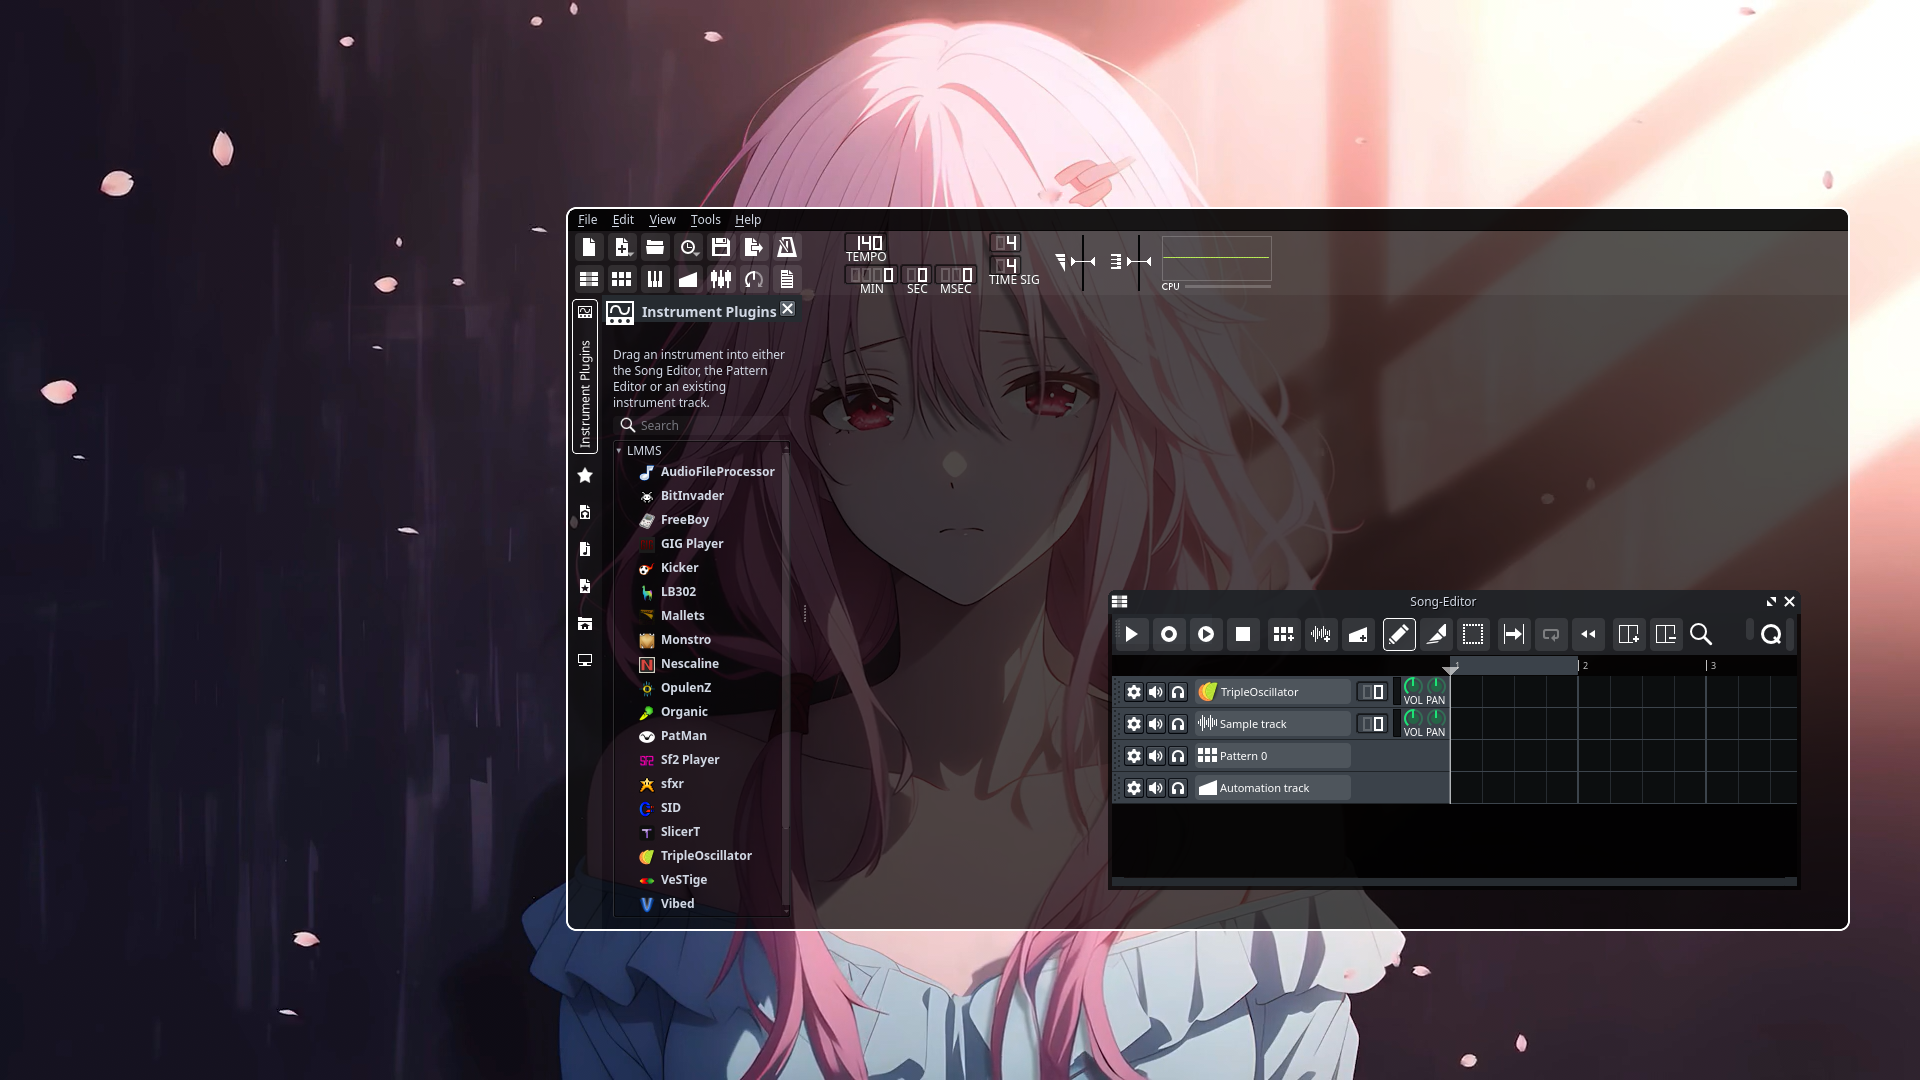
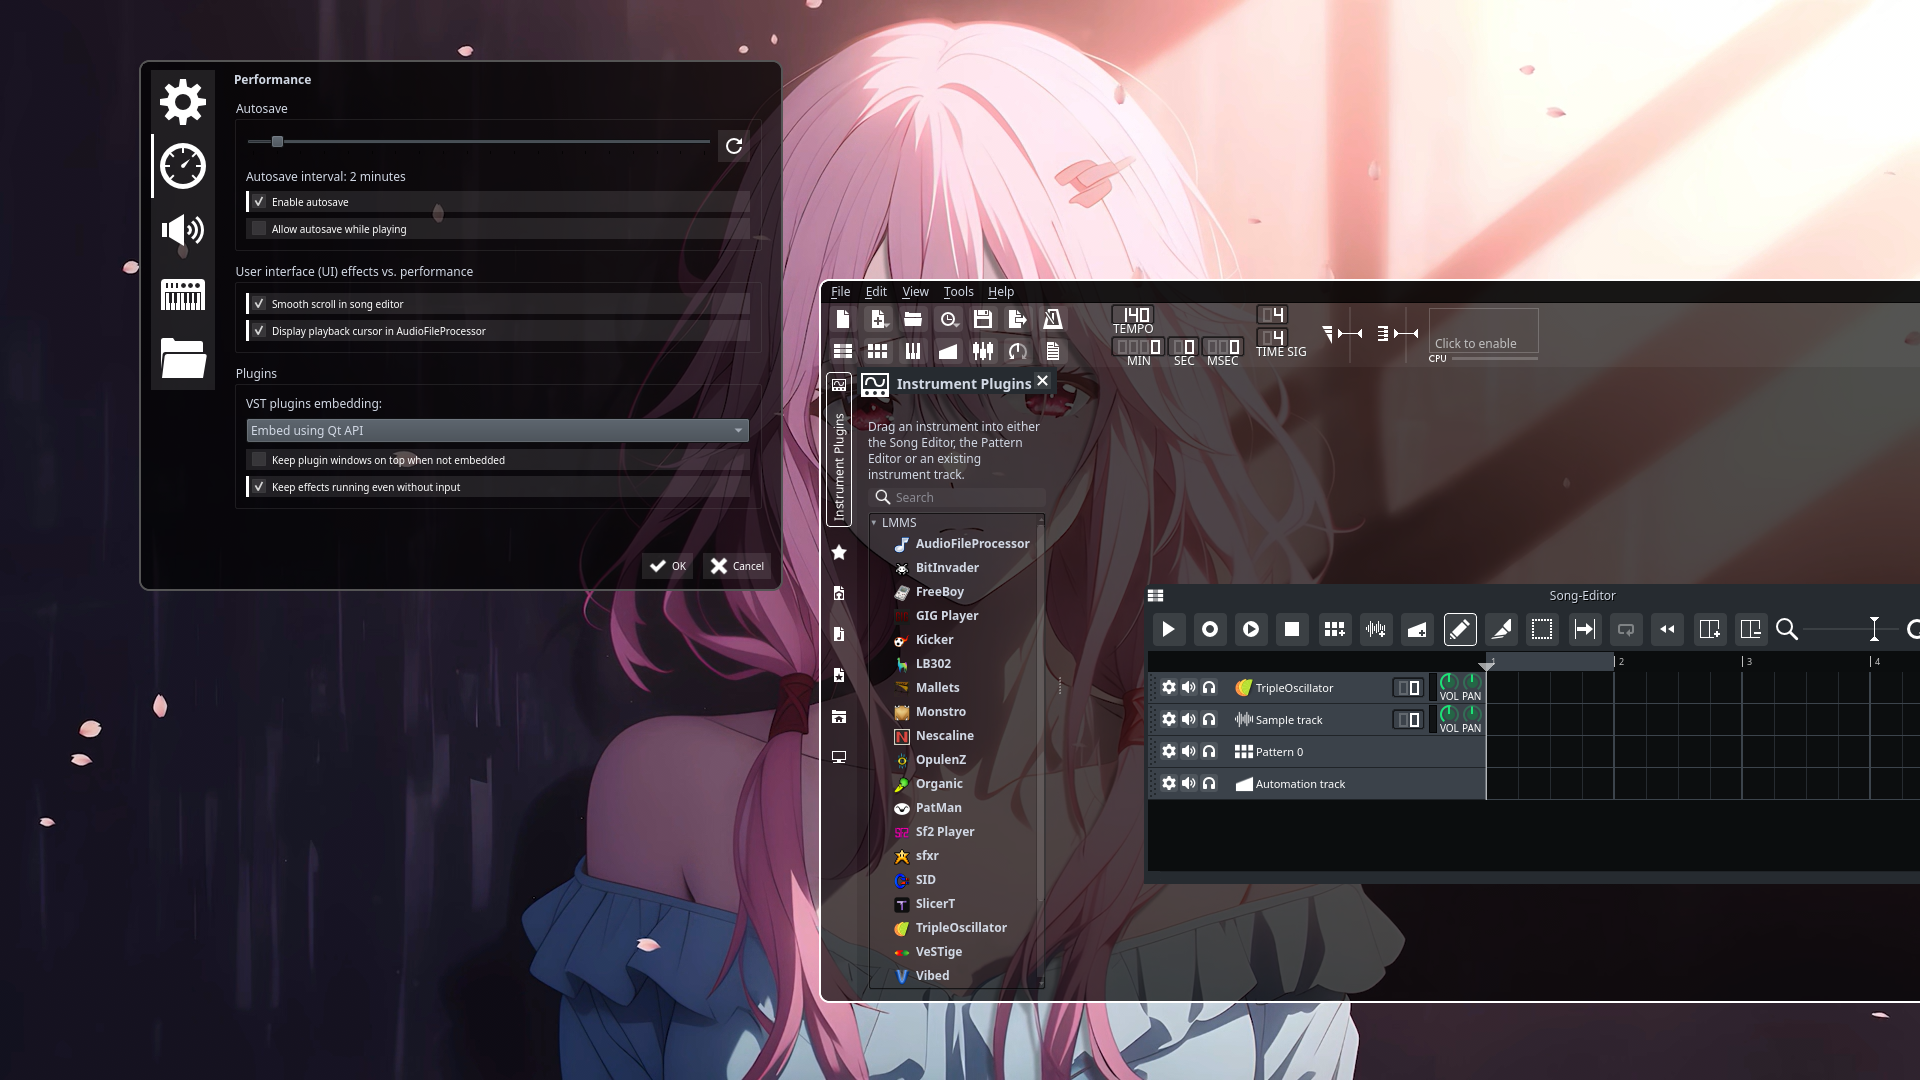
update QToolTip and screenshots

diff --git a/LMMX3/style.css b/LMMX3/style.css
@@ -104,8 +104,11 @@ QTextEdit, QLineEdit:focus, QComboBox:focus, QSpinBox:focus, QDoubleSpinBox:focu
 }
 
 QToolTip {
-	border-radius: 999px;
-	background: rgba(0, 0, 0, 0.7);
+/*	border-radius: 16px; */
+	border-color: #fff;
+	border-width: 1px;
+	border-style: solid;
+	background: rgb(0, 0, 0);
 	color: #fff;
 	padding: 3px;
 }
@@ -797,25 +800,27 @@ lmms--gui--SideBar {
 	background-color: rgba(255, 255, 255, 0.04);
 }
 
-lmms--gui--SideBar QToolButton {
+lmms--gui--SideBar > QToolButton {
 	background-color: rgba(255, 255, 255, 0);
-	border: none;
+	border-width: 1px;
+	border-style: none;
 	font-size: 12px;
+	padding: 3px;
 }
 
-lmms--gui--SideBar QToolButton:hover {
+lmms--gui--SideBar > QToolButton:hover {
 	background: rgba(255, 255, 255, 0.15);
 	border: none;
 	font-size: 12px;
 }
 
-lmms--gui--SideBar QToolButton:pressed {
+lmms--gui--SideBar > QToolButton:pressed {
 	background: none;
 	border: none;
 	font-size: 12px;
 }
 
-lmms--gui--SideBar QToolButton:checked {
+lmms--gui--SideBar > QToolButton:checked {
 	background: rgba(255, 255, 255, 0);
 	border: solid;
 	border-width: 1px;
